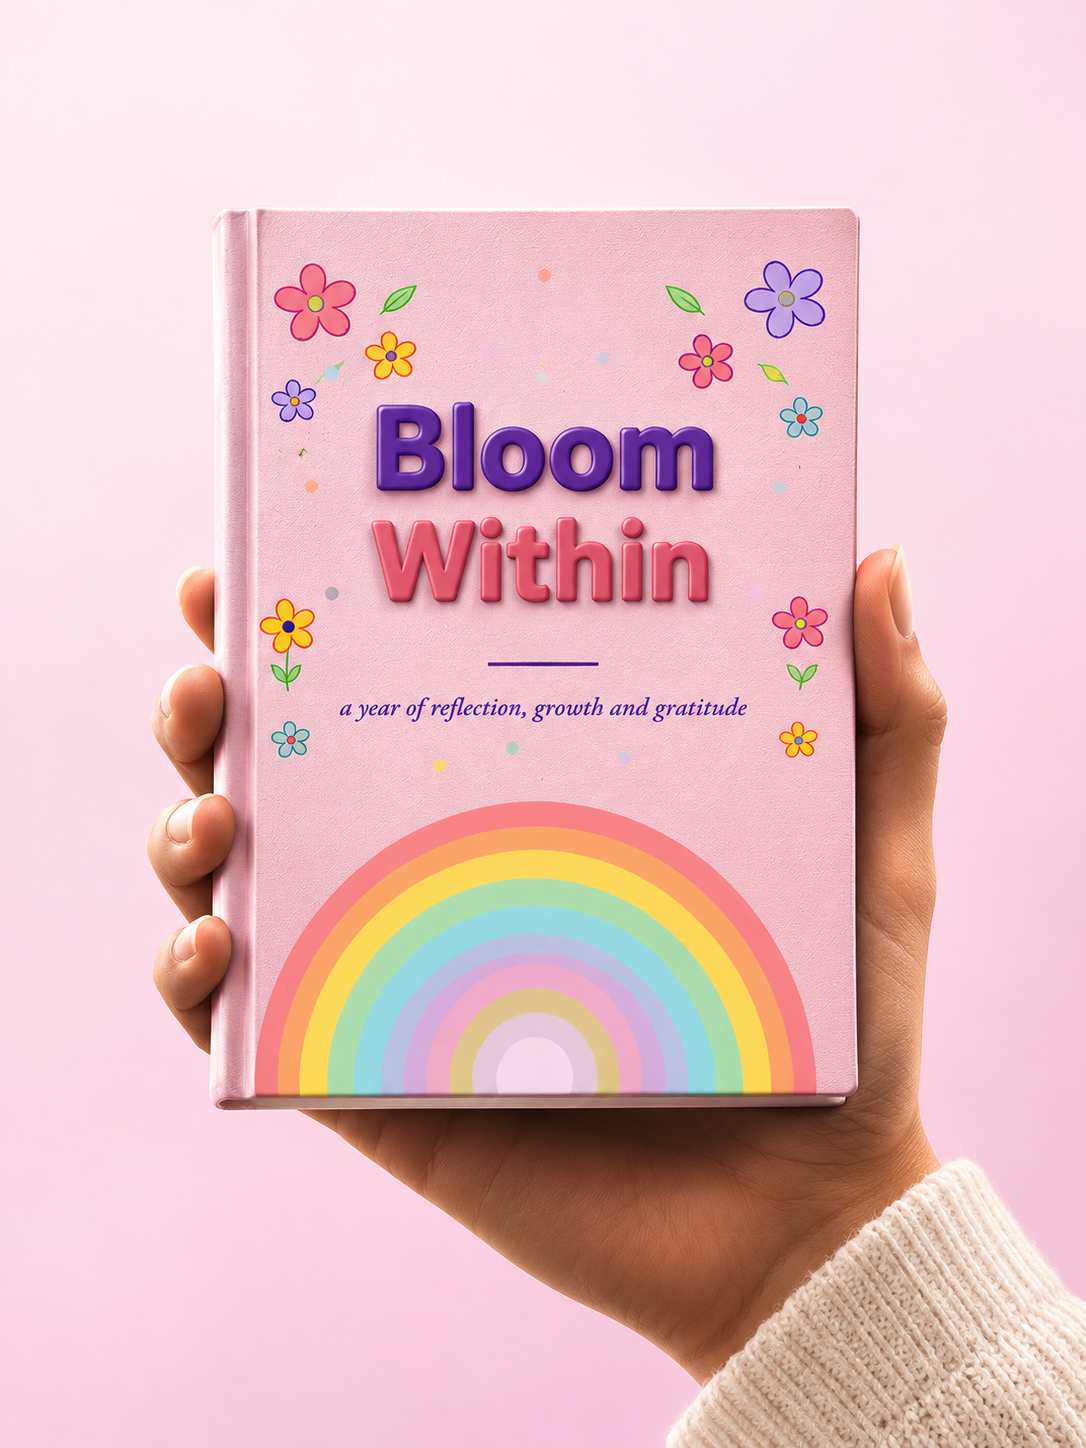
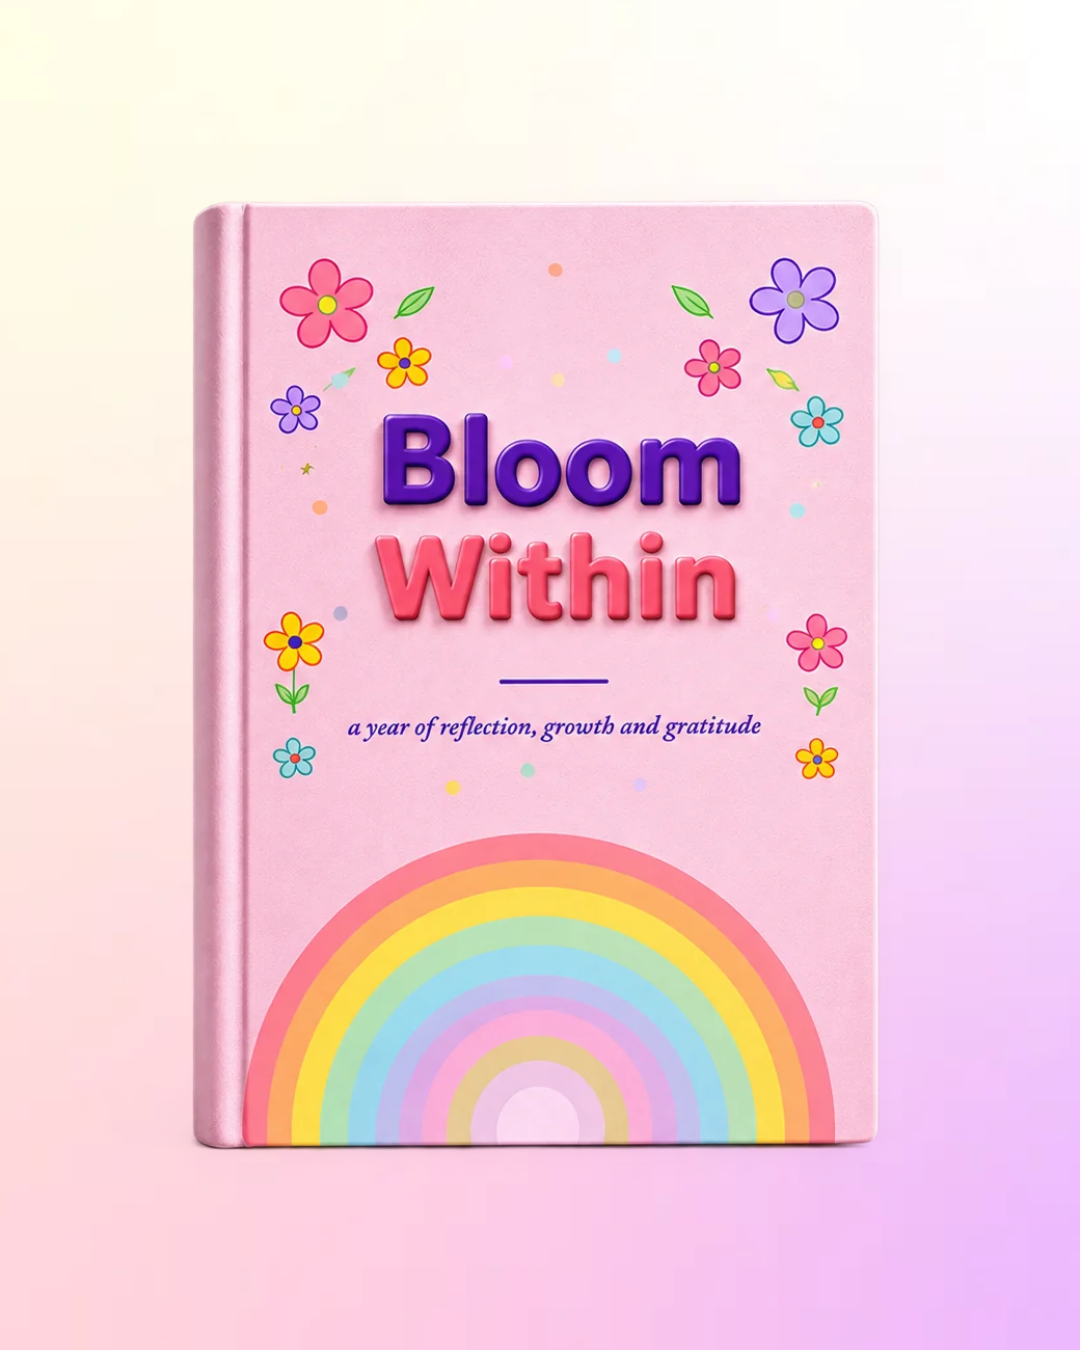
Update BloomWithin product images and content

diff --git a/components/site-chrome.tsx b/components/site-chrome.tsx
@@ -64,12 +64,27 @@ export function Footer() {
 
         <div>
           <p className="eyebrow !text-[var(--pink)]">Contact</p>
-          <p className="mt-4 text-sm leading-6 text-white/85">
-            Business contact information will be added before launch.
-          </p>
-          <div className="mt-4 flex gap-3 text-[var(--pink)]">
-            <Instagram size={18} />
-            <MessageCircle size={18} />
+          
+          <div className="mt-4 flex gap-4 text-[var(--pink)]">
+            <a
+              href="https://www.instagram.com/bloomwithin.x/"
+              target="_blank"
+              rel="noopener noreferrer"
+              aria-label="Follow BloomWithin on Instagram"
+              className="transition hover:text-white"
+            >
+              <Instagram size={20} />
+            </a>
+
+            <a
+              href="https://wa.me/91XXXXXXXXXX"
+              target="_blank"
+              rel="noopener noreferrer"
+              aria-label="Chat with BloomWithin on WhatsApp"
+              className="transition hover:text-white"
+            >
+              <MessageCircle size={20} />
+            </a>
           </div>
         </div>
       </div>

diff --git a/app/page.tsx b/app/page.tsx
@@ -101,7 +101,7 @@ export default function Home() {
     <div className="grid grid-cols-2 gap-3">
       <div className="col-span-2 overflow-hidden rounded-2xl bg-[var(--soft-pink)]">
         <img
-          src="/products/bloom-diary/cover.png"
+          src="/products/bloom-diary/Front.png"
           alt="Bloom Diary cover"
           className="h-[420px] w-full object-cover"
         />
@@ -109,7 +109,7 @@ export default function Home() {
 
       <div className="overflow-hidden rounded-xl">
         <img
-          src="/products/bloom-diary/style1.png"
+          src="/products/bloom-diary/Show.png"
           alt="Bloom Diary lifestyle"
           className="h-52 w-full object-cover"
         />
@@ -117,7 +117,7 @@ export default function Home() {
 
       <div className="overflow-hidden rounded-xl">
         <img
-          src="/products/bloom-diary/style2.png"
+          src="/products/bloom-diary/Show2.png"
           alt="Bloom Diary details"
           className="h-52 w-full object-cover"
         />

diff --git a/components/product-gallery.tsx b/components/product-gallery.tsx
@@ -5,20 +5,25 @@ import { useCallback, useEffect, useRef, useState } from "react";
 import { ChevronLeft, ChevronRight } from "lucide-react";
 
 const images = [
+  
   {
-    src: "/products/bloom-diary/cover.png",
-    alt: "Bloom Diary front cover",
-  },
-  {
-    src: "/products/bloom-diary/style1.png",
+    src: "/products/bloom-diary/Front.png",
     alt: "Bloom Diary lifestyle",
   },
   {
-    src: "/products/bloom-diary/style2.png",
+    src: "/products/bloom-diary/Front2.png",
     alt: "Bloom Diary product photography",
   },
   {
-    src: "/products/bloom-diary/detail.png",
+    src: "/products/bloom-diary/Back.png",
+    alt: "Bloom Diary close-up details",
+  },
+  {
+    src: "/products/bloom-diary/Show.png",
+    alt: "Bloom Diary close-up details",
+  },
+  {
+    src: "/products/bloom-diary/Show2.png",
     alt: "Bloom Diary close-up details",
   },
 ];
